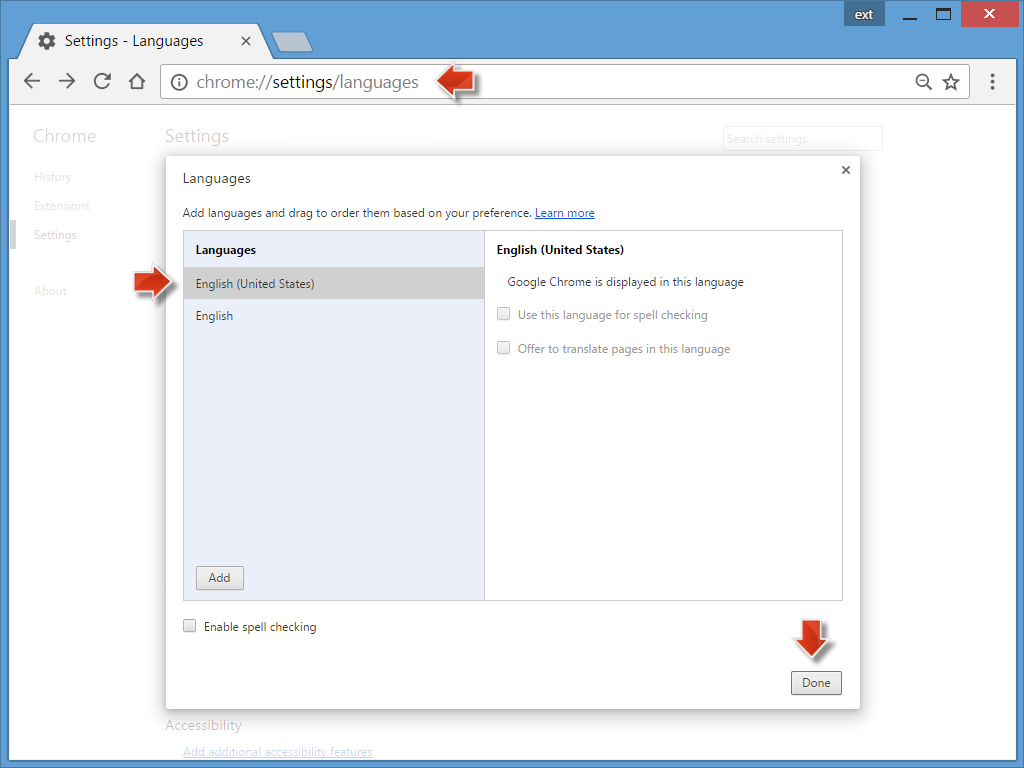
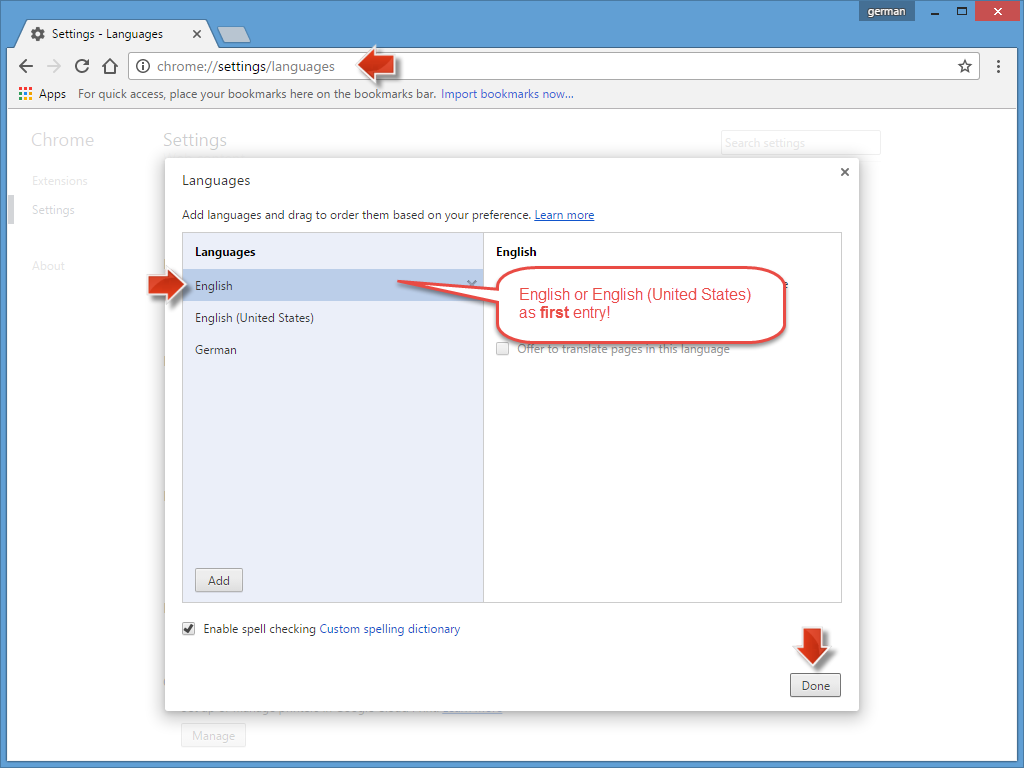
week1 unit5 make default language select more clear

diff --git a/week-1/unit-5/README.md b/week-1/unit-5/README.md
@@ -84,7 +84,7 @@ Tools like the _SAP Web IDE_ work best with _Google Chrome_, so we recommend to 
 
     > **Hint:** In this tutorial we will rely on the _default browser language_ is set to **English**.
 
-4.  Open **chrome://chrome/settings/languages** and make sure that **English** or **English (United States)** is set as default language.
+4.  Open **chrome://chrome/settings/languages** and make sure that **English** or **English (United States)** is set as default language, which means that **English** appease as the first Entry in the **Languages list**.
 
     <img src="./images/w1-u5-s2/pic01--en.png" alt="" width="640px" />
 
